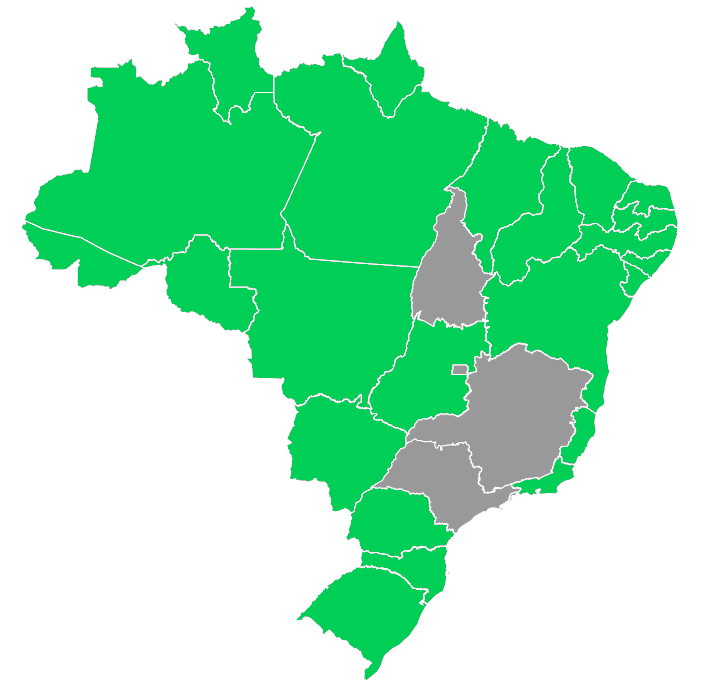
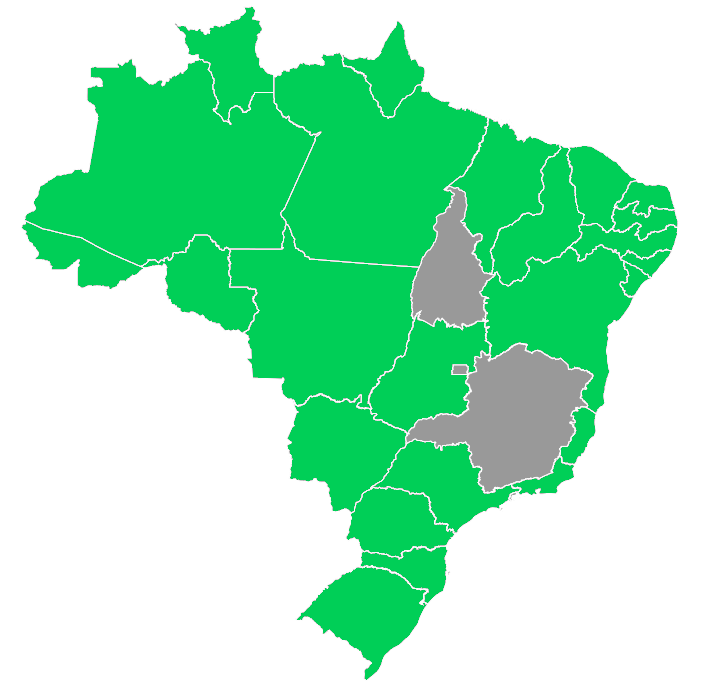
Fix: Marca estado de São Paulo como implementado
Marca o estado de São Paulo (SP) como implementado no README.md, indicando que o serviço Busca CRECI agora oferece suporte para este estado.

Atualiza imagens para refletir a implementação do estado de São Paulo.

Changed region(s): [[0.5305, 0.6419, 0.7489, 0.7948]]

diff --git a/README.md b/README.md
@@ -12,7 +12,7 @@ Atualmente, o Busca CRECI oferece suporte aos estados marcados abaixo. Estamos t
 
 | DF  | SP  | TO  | MG  | RS  | RJ  | ES  | RO  | PR  | PE  | GO  | BA  | SC  | PA  |
 |-----|-----|-----|-----|-----|-----|-----|-----|-----|-----|-----|-----|-----|-----|
-| [ ] | [ ] | [ ] | [ ] | [x] | [x] | [x] | [x] | [x] | [x] | [x] | [x] | [x] | [x] |
+| [ ] | [X] | [ ] | [ ] | [x] | [x] | [x] | [x] | [x] | [x] | [x] | [x] | [x] | [x] |
 
 | MS  | CE  | SE  | RN  | AM  | MT  | MA  | PB  | AL  | PI  | AC  | RR  | AP  |
 |-----|-----|-----|-----|-----|-----|-----|-----|-----|-----|-----|-----|-----|
